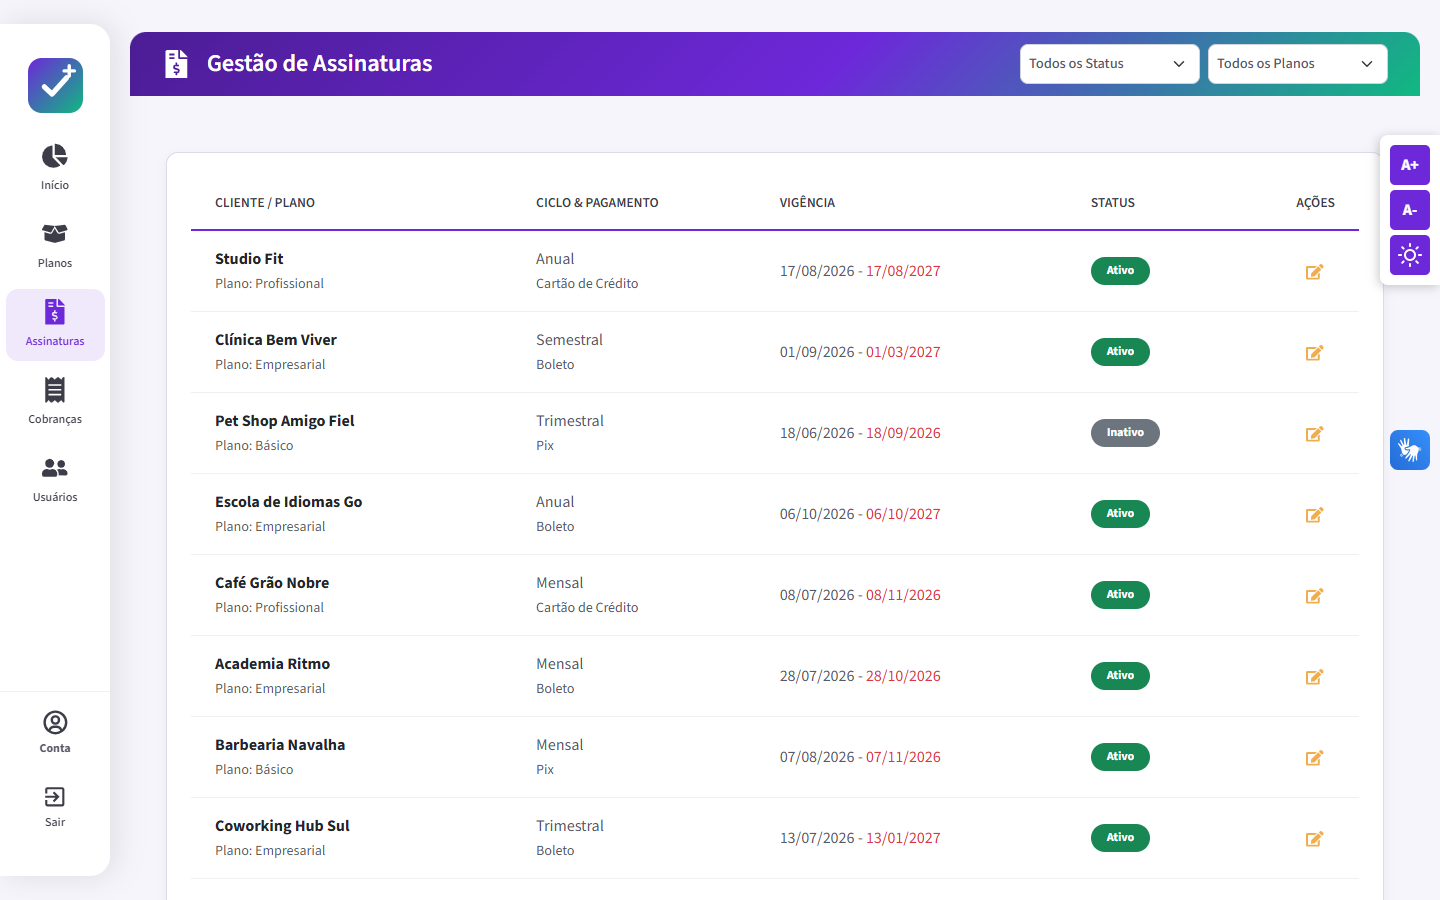
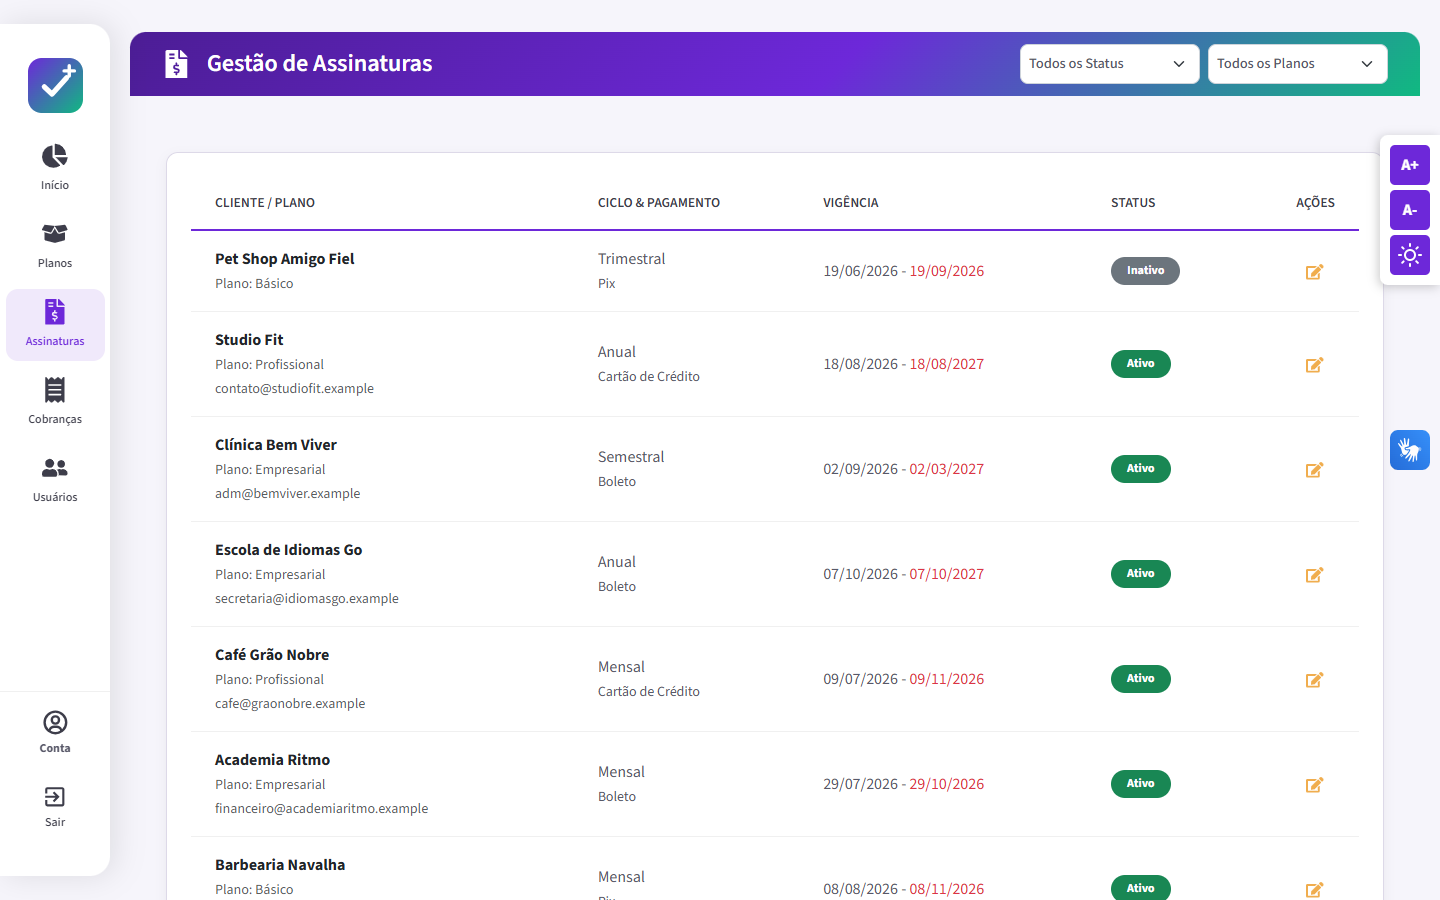
feat(lembretes): lembretes por e-mail, notificar vencidas e exportar CSV
- Campo de e-mail do cliente ao assinar e ao editar a assinatura
- Tela de cobranças: botão de lembrete, data do último lembrete, aviso de
  cliente sem e-mail e exportação CSV respeitando o filtro de status
- Painel: botão "Notificar vencidas" no aging da inadimplência
- Lista de cobranças atualiza sem esconder a tabela após cada ação
- Prints atualizados

diff --git a/src/pages/Cobrancas/index.tsx b/src/pages/Cobrancas/index.tsx
@@ -1,6 +1,6 @@
 import { useEffect, useMemo, useState } from 'react';
 import { Spinner, Table, Modal, Form, Button } from 'react-bootstrap';
-import { FaReceipt, FaFilter } from 'react-icons/fa';
+import { FaReceipt, FaFilter, FaFileCsv, FaEnvelope } from 'react-icons/fa';
 import { toast } from 'react-toastify';
 
 import { Sidebar } from '../../components/Sidebar';
@@ -14,7 +14,7 @@ import { mensagemDeErro } from '../../services/api';
 import type { Cobranca, StatusCobranca } from '../../types/Cobranca';
 
 import {
-    MainWrapper, TableContainer, FilterContainer, ResumoGrid, ResumoCard, StatusBadge, BotaoAcao
+    MainWrapper, TableContainer, FilterContainer, ResumoGrid, ResumoCard, StatusBadge, BotaoAcao, BotaoExportar
 } from './styles';
 
 const moeda = (valor: number) => valor.toLocaleString('pt-BR', { style: 'currency', currency: 'BRL' });
@@ -33,9 +33,10 @@ export function Cobrancas() {
     const [formaPagamento, setFormaPagamento] = useState('Pix');
     const [salvando, setSalvando] = useState(false);
 
-    async function carregar() {
+    // Depois de uma ação, recarrega sem esconder a tabela (sem o spinner de página inteira)
+    async function carregar(mostrarCarregando = true) {
         try {
-            setLoading(true);
+            if (mostrarCarregando) setLoading(true);
             setCobrancas(await CobrancaService.getAll());
         } catch (error) {
             toast.error(mensagemDeErro(error, 'Erro ao carregar cobranças.'));
@@ -86,11 +87,29 @@ export function Cobrancas() {
             await CobrancaService.registrarPagamento(cobrancaSelecionada.id, dataPagamento, formaPagamento);
             toast.success('Pagamento registrado!');
             setCobrancaSelecionada(null);
-            carregar();
+            carregar(false);
         } catch (error) {
             toast.error(mensagemDeErro(error, 'Erro ao registrar pagamento.'));
         } finally {
             setSalvando(false);
+        }
+    }
+
+    async function enviarLembrete(cobranca: Cobranca) {
+        try {
+            const { message } = await CobrancaService.enviarLembrete(cobranca.id);
+            toast.success(message);
+            carregar(false);
+        } catch (error) {
+            toast.error(mensagemDeErro(error, 'Erro ao enviar lembrete.'));
+        }
+    }
+
+    async function exportar() {
+        try {
+            await CobrancaService.exportarCsv(filtroStatus ? { status: filtroStatus } : {});
+        } catch (error) {
+            toast.error(mensagemDeErro(error, 'Erro ao exportar cobranças.'));
         }
     }
 
@@ -100,7 +119,7 @@ export function Cobrancas() {
         try {
             await CobrancaService.cancelar(cobranca.id);
             toast.success('Cobrança cancelada.');
-            carregar();
+            carregar(false);
         } catch (error) {
             toast.error(mensagemDeErro(error, 'Erro ao cancelar cobrança.'));
         }
@@ -123,6 +142,9 @@ export function Cobrancas() {
                             <option value="Paga">Pagas</option>
                             <option value="Cancelada">Canceladas</option>
                         </Form.Select>
+                        <BotaoExportar type="button" onClick={exportar} title="Baixar as cobranças do filtro atual em CSV">
+                            <FaFileCsv /> Exportar CSV
+                        </BotaoExportar>
                     </FilterContainer>
                 </PageHeaderContainer>
 
@@ -177,6 +199,9 @@ export function Cobrancas() {
                                                         <td className="ps-3">
                                                             <div className="fw-bold text-dark">{c.clienteNome}</div>
                                                             <small className="text-muted">{c.planoNome} · {c.tipoRecorrencia}</small>
+                                                            {emAberto && !c.clienteEmail && (
+                                                                <div><small className="text-muted fst-italic">sem e-mail cadastrado</small></div>
+                                                            )}
                                                         </td>
                                                         <td><small>{data(c.periodoInicio)} a {data(c.periodoFim)}</small></td>
                                                         <td>
@@ -187,10 +212,18 @@ export function Cobrancas() {
                                                             {c.status === 'Paga' && (
                                                                 <div><small className="text-muted">pago em {data(c.dataPagamento)}</small></div>
                                                             )}
+                                                            {emAberto && c.ultimoLembrete && (
+                                                                <div><small className="text-muted"><FaEnvelope size={10} /> lembrete em {data(c.ultimoLembrete)}</small></div>
+                                                            )}
                                                         </td>
                                                         <td className="fw-bold">{moeda(c.valor)}</td>
                                                         <td><StatusBadge $status={c.status}>{c.status}</StatusBadge></td>
                                                         <td className="text-end pe-3 text-nowrap">
+                                                            {emAberto && c.clienteEmail && (
+                                                                <BotaoAcao $variante="lembrete" onClick={() => enviarLembrete(c)} title={`Enviar lembrete para ${c.clienteEmail}`}>
+                                                                    <FaEnvelope /> Lembrete
+                                                                </BotaoAcao>
+                                                            )}
                                                             {emAberto && (
                                                                 <BotaoAcao $variante="pagar" onClick={() => abrirPagamento(c)}>Registrar pagamento</BotaoAcao>
                                                             )}

diff --git a/src/pages/Assinaturas/index.tsx b/src/pages/Assinaturas/index.tsx
@@ -17,6 +17,7 @@ import { MainWrapper, TableContainer, ActionButton, FilterContainer } from './st
 interface Assinatura {
     id: number;
     clienteNome: string;
+    clienteEmail?: string | null;
     planoId: number;
     tipoRecorrencia: string;
     formaPagamento: string;
@@ -44,6 +45,7 @@ export function Assinaturas() {
     const [editCiclo, setEditCiclo] = useState('');
     const [editPagamento, setEditPagamento] = useState('');
     const [editStatus, setEditStatus] = useState(''); 
+    const [editEmail, setEditEmail] = useState('');
 
     useEffect(() => {
         async function loadData() {
@@ -68,7 +70,8 @@ export function Assinaturas() {
         setEditPlanoId(assinatura.planoId);
         setEditCiclo(assinatura.tipoRecorrencia);
         setEditPagamento(assinatura.formaPagamento);
-        setEditStatus(assinatura.status); 
+        setEditStatus(assinatura.status);
+        setEditEmail(assinatura.clienteEmail ?? '');
         setShowEditModal(true);
     }
 
@@ -86,6 +89,7 @@ export function Assinaturas() {
 
             await AssinaturaService.update(selectedAssinatura.id, {
                 planoId: editPlanoId,
+                clienteEmail: editEmail,
                 tipoRecorrencia: editCiclo,
                 formaPagamento: editPagamento
             });
@@ -95,7 +99,7 @@ export function Assinaturas() {
 
             setAssinaturas(oldList => oldList.map(item =>
                 item.id === selectedAssinatura.id
-                    ? { ...item, planoId: editPlanoId, tipoRecorrencia: editCiclo, formaPagamento: editPagamento, status: editStatus }
+                    ? { ...item, planoId: editPlanoId, clienteEmail: editEmail || null, tipoRecorrencia: editCiclo, formaPagamento: editPagamento, status: editStatus }
                     : item
             ));
 
@@ -181,6 +185,7 @@ export function Assinaturas() {
                                                 <td className="ps-4">
                                                     <div className="fw-bold text-dark">{item.clienteNome}</div>
                                                     <small className="text-muted">Plano: {getPlanoNome(item.planoId)}</small>
+                                                    {item.clienteEmail && <div><small className="text-muted">{item.clienteEmail}</small></div>}
                                                 </td>
                                                 <td>{item.tipoRecorrencia} <br /><small>{item.formaPagamento}</small></td>
                                                 <td>{formatDate(item.dataInicio)} - <span className="text-danger">{formatDate(item.dataExpiracao)}</span></td>
@@ -224,6 +229,10 @@ export function Assinaturas() {
                             </Col>
                         </Row>
                         <hr />
+                        <Form.Group className="mb-3">
+                            <Form.Label>E-mail do cliente <small className="text-muted">(para lembretes de cobrança)</small></Form.Label>
+                            <Form.Control type="email" placeholder="cliente@empresa.com" value={editEmail} onChange={e => setEditEmail(e.target.value)} />
+                        </Form.Group>
                         <Form.Group className="mb-3">
                             <Form.Label>Plano</Form.Label>
                             <Form.Select value={editPlanoId} onChange={e => setEditPlanoId(Number(e.target.value))}>

diff --git a/src/pages/Dashboard/index.tsx b/src/pages/Dashboard/index.tsx
@@ -12,6 +12,7 @@ import PageContainer from '../../components/PageContainer';
 import PageHeaderContainer from '../../components/PageHeaderContainer';
 
 import ProvisaoService from '../../services/ProvisaoService';
+import CobrancaService from '../../services/CobrancaService';
 import { mensagemDeErro } from '../../services/api';
 import type { PainelDeProvisoes } from '../../types/Provisoes';
 
@@ -37,6 +38,7 @@ export function Dashboard() {
   const [painel, setPainel] = useState<PainelDeProvisoes | null>(null);
   const [mesesFuturos, setMesesFuturos] = useState(6);
   const [loading, setLoading] = useState(true);
+  const [notificando, setNotificando] = useState(false);
 
   useEffect(() => {
     async function carregar() {
@@ -51,6 +53,18 @@ export function Dashboard() {
     }
     carregar();
   }, [mesesFuturos]);
+
+  async function notificarVencidas() {
+    setNotificando(true);
+    try {
+      const { message } = await CobrancaService.notificarVencidas();
+      toast.success(message);
+    } catch (error) {
+      toast.error(mensagemDeErro(error, 'Erro ao enviar lembretes.'));
+    } finally {
+      setNotificando(false);
+    }
+  }
 
   const maiorFaixa = painel ? Math.max(...painel.aging.map(f => f.valor), 1) : 1;
   const dadosGrafico = painel?.previsao.map(p => ({ ...p, nome: nomeDoMes(p.mes) })) ?? [];
@@ -130,6 +144,11 @@ export function Dashboard() {
               <Painel>
                 <header>
                   <h3>Aging da inadimplência</h3>
+                  {painel.quantidadeVencida > 0 && (
+                    <button type="button" className="btn btn-sm btn-outline-danger" onClick={notificarVencidas} disabled={notificando}>
+                      {notificando ? <Spinner animation="border" size="sm" /> : `Notificar vencidas (${painel.quantidadeVencida})`}
+                    </button>
+                  )}
                 </header>
                 {painel.aging.map(faixa => (
                   <FaixaAging

diff --git a/src/pages/Planos/index.tsx b/src/pages/Planos/index.tsx
@@ -40,6 +40,7 @@ export function Planos() {
   const [showSubscribeModal, setShowSubscribeModal] = useState(false);
   const [selectedPlano, setSelectedPlano] = useState<Plano | null>(null);
   const [subCliente, setSubCliente] = useState('');
+  const [subEmail, setSubEmail] = useState('');
   const [subCiclo, setSubCiclo] = useState('Mensal');
   const [ciclos, setCiclos] = useState<CicloDePreco[]>([]);
   const [subPagamento, setSubPagamento] = useState('Cartão de Crédito');
@@ -130,6 +131,7 @@ export function Planos() {
   function handleOpenSubscribe(plano: Plano) {
     setSelectedPlano(plano);
     setSubCliente('');
+    setSubEmail('');
     setSubCiclo('Mensal');
     setSubPagamento('Cartão de Crédito');
     setCiclos([]);
@@ -148,6 +150,7 @@ export function Planos() {
       await AssinaturaService.create({
         planoId: selectedPlano.id,
         clienteNome: subCliente,
+        clienteEmail: subEmail || null,
         tipoRecorrencia: subCiclo,
         formaPagamento: subPagamento
       });
@@ -346,6 +349,16 @@ export function Planos() {
                     placeholder="Nome do cliente ou empresa..."
                     value={subCliente}
                     onChange={e => setSubCliente(e.target.value)}
+                  />
+                </Form.Group>
+
+                <Form.Group className="mb-3">
+                  <Form.Label className="fw-bold">E-mail do Cliente <small className="text-muted fw-normal">(opcional, para lembretes)</small></Form.Label>
+                  <Form.Control
+                    type="email"
+                    placeholder="cliente@empresa.com"
+                    value={subEmail}
+                    onChange={e => setSubEmail(e.target.value)}
                   />
                 </Form.Group>
 

diff --git a/src/pages/Cobrancas/styles.ts b/src/pages/Cobrancas/styles.ts
@@ -2,6 +2,22 @@ import styled from "styled-components";
 
 export { MainWrapper, TableContainer, FilterContainer } from "../Assinaturas/styles";
 
+export const BotaoExportar = styled.button`
+  display: flex;
+  align-items: center;
+  gap: 0.4rem;
+  background: var(--branco);
+  border: none;
+  border-radius: 8px;
+  padding: 0.5rem 0.9rem;
+  font-weight: 600;
+  font-size: 0.9rem;
+  color: var(--cor-primaria-escura);
+  white-space: nowrap;
+
+  &:hover { background: #f5f3ff; }
+`;
+
 export const ResumoGrid = styled.div`
   display: grid;
   grid-template-columns: repeat(auto-fit, minmax(200px, 1fr));
@@ -50,10 +66,12 @@ export const StatusBadge = styled.span<{ $status: string }>`
   color: ${(props) => coresStatus[props.$status]?.texto ?? "#495057"};
 `;
 
-export const BotaoAcao = styled.button<{ $variante: "pagar" | "cancelar" }>`
+const coresAcao = { pagar: "var(--cor-destaque)", cancelar: "#d9534f", lembrete: "var(--cor-primaria)" };
+
+export const BotaoAcao = styled.button<{ $variante: "pagar" | "cancelar" | "lembrete" }>`
   background: transparent;
-  border: 1px solid ${(props) => (props.$variante === "pagar" ? "var(--cor-destaque)" : "#d9534f")};
-  color: ${(props) => (props.$variante === "pagar" ? "var(--cor-destaque)" : "#d9534f")};
+  border: 1px solid ${(props) => coresAcao[props.$variante]};
+  color: ${(props) => coresAcao[props.$variante]};
   border-radius: 8px;
   padding: 0.3rem 0.7rem;
   font-size: 0.85rem;
@@ -62,7 +80,7 @@ export const BotaoAcao = styled.button<{ $variante: "pagar" | "cancelar" }>`
   transition: 0.2s;
 
   &:hover {
-    background-color: ${(props) => (props.$variante === "pagar" ? "var(--cor-destaque)" : "#d9534f")};
+    background-color: ${(props) => coresAcao[props.$variante]};
     color: #fff;
   }
 `;

diff --git a/src/services/CobrancaService.ts b/src/services/CobrancaService.ts
@@ -20,6 +20,27 @@ const CobrancaService = {
   cancelar: async (id: number) => {
     const response = await api.post(`/cobrancas/${id}/cancelar`);
     return response.data;
+  },
+
+  enviarLembrete: async (id: number): Promise<{ message: string }> => {
+    const response = await api.post(`/cobrancas/${id}/lembrete`);
+    return response.data;
+  },
+
+  notificarVencidas: async (): Promise<{ message: string; enviados: number; semEmail: number }> => {
+    const response = await api.post('/cobrancas/lembretes/vencidas');
+    return response.data;
+  },
+
+  // Baixa o CSV gerado pela API (mesmos filtros da listagem)
+  exportarCsv: async (filtro: FiltroCobrancas = {}) => {
+    const response = await api.get('/cobrancas/exportar', { params: filtro, responseType: 'blob' });
+    const url = URL.createObjectURL(response.data);
+    const link = document.createElement('a');
+    link.href = url;
+    link.download = `cobrancas-${new Date().toLocaleDateString('sv-SE')}.csv`;
+    link.click();
+    URL.revokeObjectURL(url);
   }
 };
 

diff --git a/src/types/Cobranca.ts b/src/types/Cobranca.ts
@@ -4,6 +4,7 @@ export interface Cobranca {
   id: number;
   assinaturaId: number;
   clienteNome: string;
+  clienteEmail?: string | null;
   planoNome: string;
   tipoRecorrencia: string;
   periodoInicio: string;
@@ -14,6 +15,7 @@ export interface Cobranca {
   dataPagamento?: string | null;
   formaPagamento?: string | null;
   diasEmAtraso: number;
+  ultimoLembrete?: string | null;
 }
 
 export interface CicloDePreco {

diff --git a/src/services/AssinaturaService.ts b/src/services/AssinaturaService.ts
@@ -4,6 +4,7 @@ export interface AssinaturaDto {
   id?: number;
   planoId: number;
   clienteNome?: string;
+  clienteEmail?: string | null;
   tipoRecorrencia: string;
   formaPagamento: string;
   status?: string; 

diff --git a/README.md b/README.md
@@ -60,7 +60,8 @@ A URL da API pode ser alterada copiando `.env.example` para `.env.local`. O padr
 - **Painel de provisões** (tela inicial): MRR, valor a receber em 30 dias, valor vencido, provisão para inadimplência, gráfico de previsão de recebimentos (3, 6 ou 12 meses), aging do atraso e próximos vencimentos
 - **Planos** em cards: criar, editar e excluir (somente Admin, com confirmação de senha) e assinar um plano para um cliente
 - **Assinaturas**: listagem, edição de plano, ciclo e forma de pagamento, inativação e reativação
-- **Cobranças**: totais a receber, vencido e recebido; registro de pagamento e cancelamento (Admin); dias em atraso
+- **Cobranças**: totais a receber, vencido e recebido; registro de pagamento e cancelamento (Admin); dias em atraso; lembrete por e-mail; exportação em CSV
+- **Notificar vencidas**: no painel, envia lembrete por e-mail para todos os clientes em atraso
 - **Preço por ciclo**: ao assinar, mostra o valor do ciclo, o equivalente mensal e os meses grátis (semestral e anual)
 - **Usuários**: listagem e edição de dados
 - **Perfil** do usuário logado
